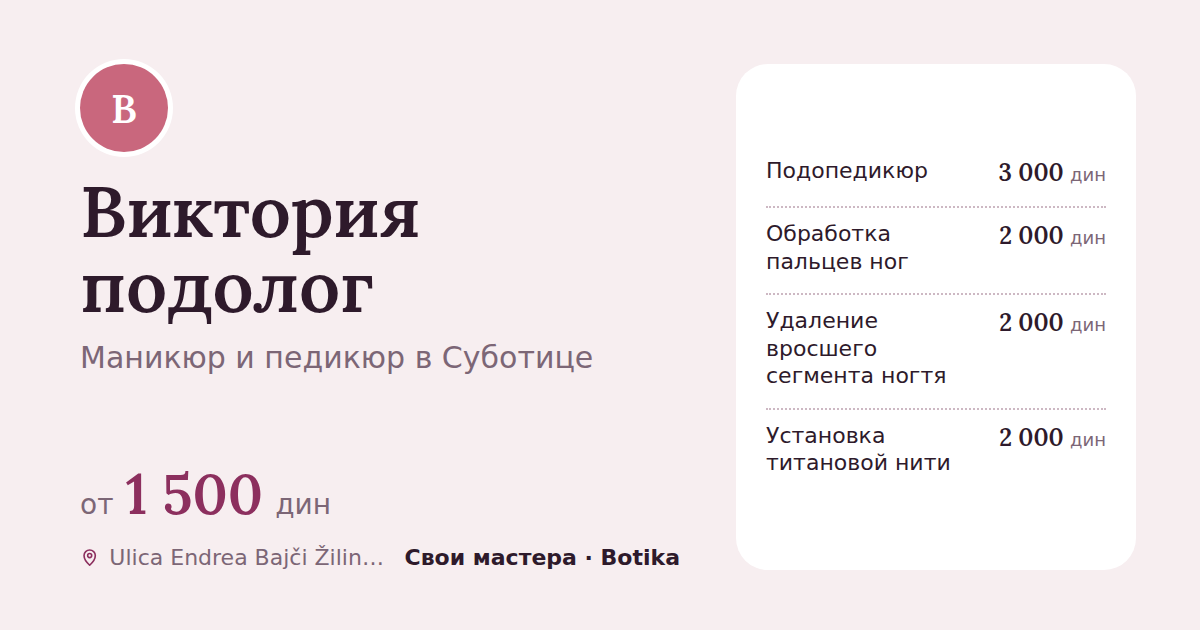
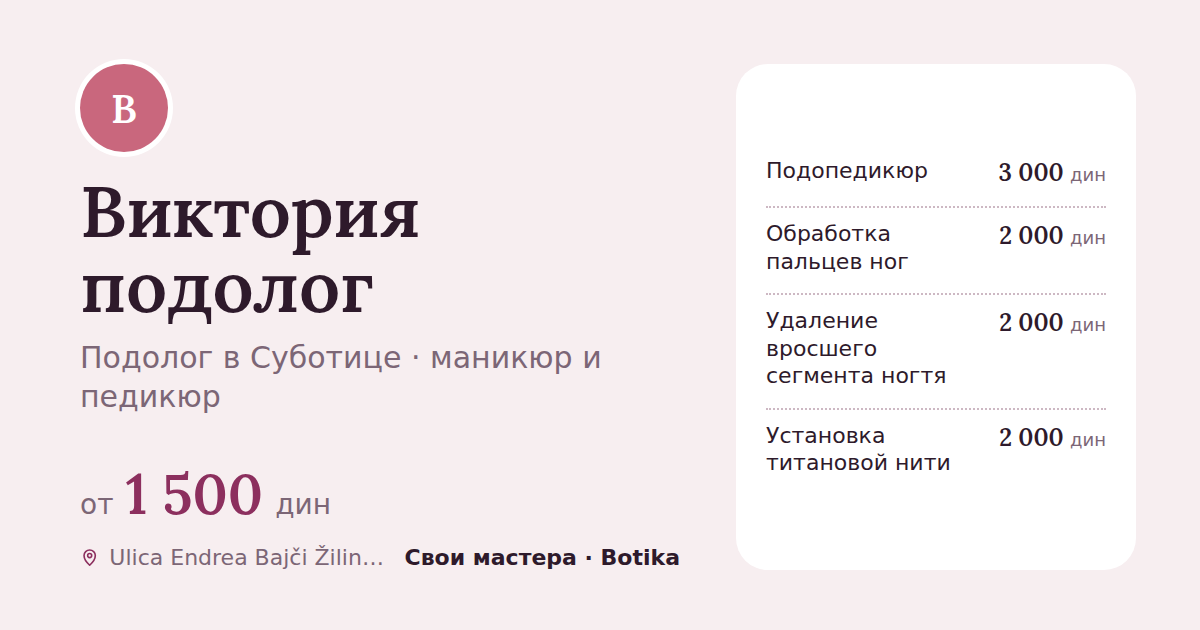
Свои мастера: страницы городов и услуг

Changed region(s): [[0.0617, 0.5429, 0.4933, 0.6635]]

diff --git a/mastera/m/viktoriya-podolog-subotitsa/index.html b/mastera/m/viktoriya-podolog-subotitsa/index.html
@@ -12,8 +12,8 @@
 <meta property="og:description" content="Виктория подолог — Маникюр и педикюр в Суботице. Цены от 1 500 дин. Подопедикюр, Обработка пальцев ног, Удаление вросшего сегмента ногтя, Установка титановой нити. Где принимает, точные цены и запись.">
 <meta property="og:type" content="profile">
 <meta property="og:url" content="https://nasta11.github.io/mastera/m/viktoriya-podolog-subotitsa/">
-<!-- og-src:5fa4bb6b2774 -->
-<meta property="og:image" content="https://nasta11.github.io/mastera/m/viktoriya-podolog-subotitsa/og.png?v=5fa4bb6b">
+<!-- og-src:8dfe4d856ea5 -->
+<meta property="og:image" content="https://nasta11.github.io/mastera/m/viktoriya-podolog-subotitsa/og.png?v=8dfe4d85">
 <meta property="og:image:width" content="1200">
 <meta property="og:image:height" content="630">
 <meta property="og:image:alt" content="Виктория подолог — Маникюр и педикюр в Суботице">
@@ -86,7 +86,7 @@ h2{margin:0 0 8px;font:600 21px/1.2 var(--serif)}
 <div class="wrap">
   <div class="who"><div class="ava" style="background:#C9677D">В</div><div>
     <h1>Виктория подолог</h1>
-    <p class="lead">Маникюр и педикюр в Суботице<br>Языки: русский, srpski</p>
+    <p class="lead">Подолог в Суботице · маникюр и педикюр<br>Языки: русский, srpski</p>
     
     
   </div></div>
